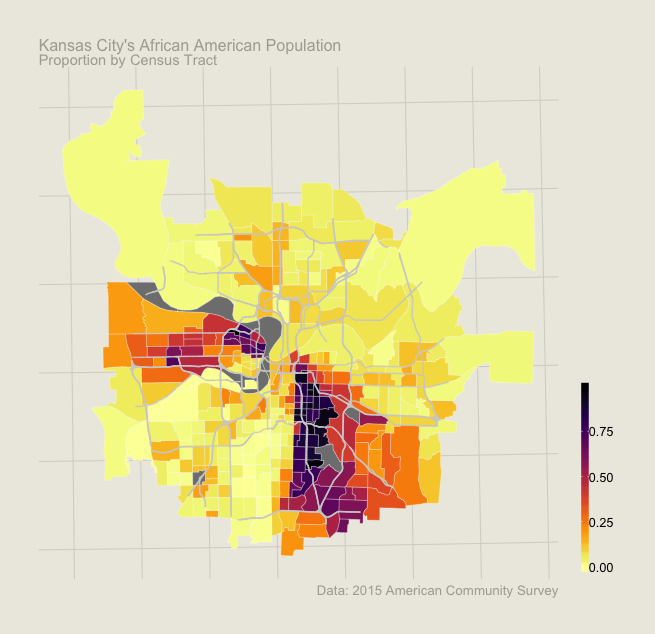
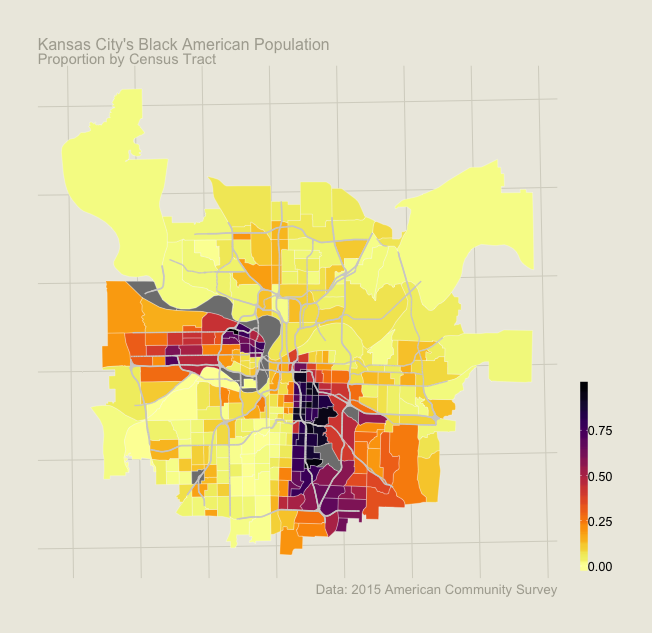
reword

diff --git a/blog/geographic-subsets/index.html b/blog/geographic-subsets/index.html
@@ -129,7 +129,7 @@ crossorigin="anonymous"></script>
 
 <p>I&rsquo;m interested in cities and their people, and city metropolitan areas often span multiple counties, however, not all counties are equal particularly in terms of area. Seriously, look up San Bernardino county, California and see how many New England states you can fit inside it. Well, the problem is that you are often not interested in all of the super-geographies during an analysis. Instead, you are interested in some sub-geographies that make up a certain radius around a coordinate. This was my issue and this post is going to walk you through two different solutions: one out of naïveté and the other a bit more researched.</p>
 
-<p>Kansas City is the perfect candidate to test subsetting around a coordinate. Its metropolitan area spans 9 counties and 2 states (the majority in Missouri and some in Kansas). Just to be exhaustive, I will be collecting on a 15 county area. It also happens to be my place of birth and where I spent the majority of the first 18 years of my life. I will be using <code>tidycensus</code> to gather the Census tracts for each of these counties along with the 2015 American Community Survey estimates on the proportion of African Americans living in each tract. Take a look at my <a href="https://jcbain.github.io/blog/diversity-with-tidycensus/">previous post</a> for a more detailed explanation of using <code>tidycensus</code> to collect ACS data. First we will load in our packages and then gather our data.</p>
+<p>Kansas City is the perfect candidate to test subsetting around a coordinate. Its metropolitan area spans 9 counties and 2 states (the majority in Missouri and some in Kansas). Just to be exhaustive, I will be collecting on a 15 county area. It also happens to be my place of birth and where I spent the majority of the first 18 years of my life. I will be using <code>tidycensus</code> to gather the Census tracts for each of these counties along with the 2015 American Community Survey estimates on the proportion of Black Americans living in each tract. Take a look at my <a href="https://jcbain.github.io/blog/diversity-with-tidycensus/">previous post</a> for a more detailed explanation of using <code>tidycensus</code> to collect ACS data. First we will load in our packages and then gather our data.</p>
 
 <pre><code class="language-r">library(tidyverse)  
 library(tidycensus)
@@ -193,7 +193,7 @@ kc &lt;- geographies %&gt;%
   ggplot(aes(fill = aa)) + 
   geom_sf( colour = '#ffffff', size = 0.1) + 
   scale_fill_viridis(option = &quot;inferno&quot;, direction = -1) +
-  labs(title = &quot;Kansas City's African American Population&quot;,
+  labs(title = &quot;Kansas City's Black American Population&quot;,
        subtitle = &quot;Proportion by Census Tract&quot; ,
        caption = 'Data: 2015 American Community Survey')
 </code></pre>
@@ -242,7 +242,7 @@ kc_sub %&gt;%
   ggplot(aes(fill = aa)) + 
   geom_sf( colour = '#ffffff', size = 0.1) + 
   scale_fill_viridis(option = &quot;inferno&quot;, direction = -1) +
-  labs(title = &quot;Kansas City's African American Population&quot;,
+  labs(title = &quot;Kansas City's Black American Population&quot;,
        subtitle = &quot;Proportion by Census Tract&quot; ,
        caption = 'Data: 2015 American Community Survey')
 </code></pre>
@@ -276,7 +276,7 @@ kc_sel_sf %&gt;%
   ggplot()+
   geom_sf(aes(fill = aa), colour = '#ffffff', size = 0.1) + 
   scale_fill_viridis(option = &quot;inferno&quot;, direction = -1) +
-  labs(title = &quot;Kansas City's African American Population&quot;,
+  labs(title = &quot;Kansas City's Black American Population&quot;,
        subtitle = &quot;Proportion by Census Tract&quot; ,
        caption = 'Data: 2015 American Community Survey')
 </code></pre>
@@ -317,7 +317,7 @@ subset_map(kc_sub, -94.5786, 39.0997, dist = 20000) %&gt;%
   geom_sf(data = highways, color = '#d1d0cf') +
   theme_mapper()+
   scale_fill_viridis(option = &quot;inferno&quot;, direction = -1) +
-  labs(title = &quot;Kansas City's African American Population&quot;,
+  labs(title = &quot;Kansas City's Black American Population&quot;,
        subtitle = &quot;Proportion by Census Tract&quot; ,
        caption = 'Data: 2015 American Community Survey')
 </code></pre>
@@ -334,7 +334,7 @@ subset_map(kc_sub, -94.5786, 39.0997, dist = 20000) %&gt;%
   geom_sf(data = highway_sub, color = '#d1d0cf') +
   theme_mapper()+
   scale_fill_viridis(option = &quot;inferno&quot;, direction = -1) +
-  labs(title = &quot;Kansas City's African American Population&quot;,
+  labs(title = &quot;Kansas City's Black American Population&quot;,
        subtitle = &quot;Proportion by Census Tract&quot; ,
        caption = 'Data: 2015 American Community Survey')
 </code></pre>
